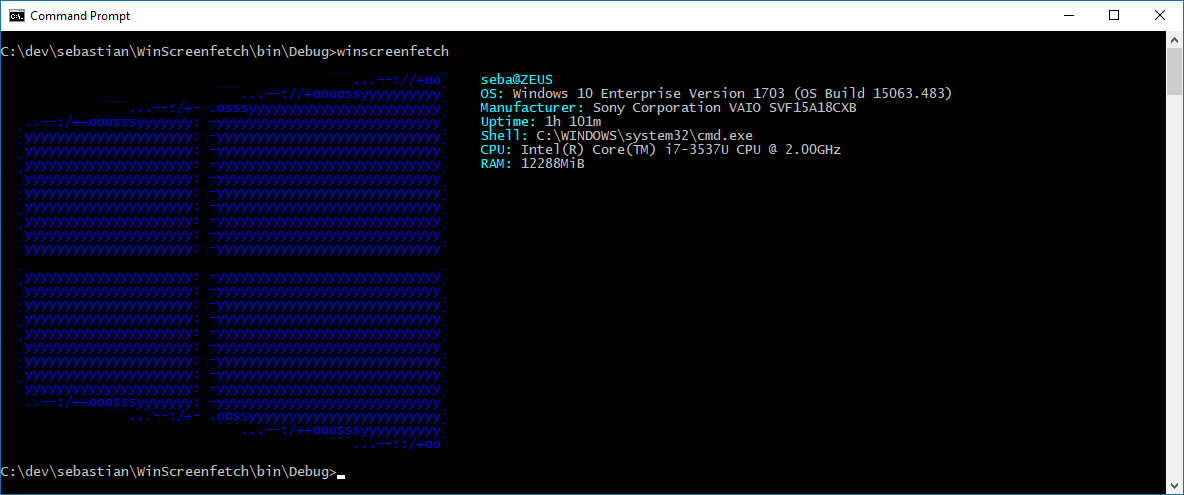
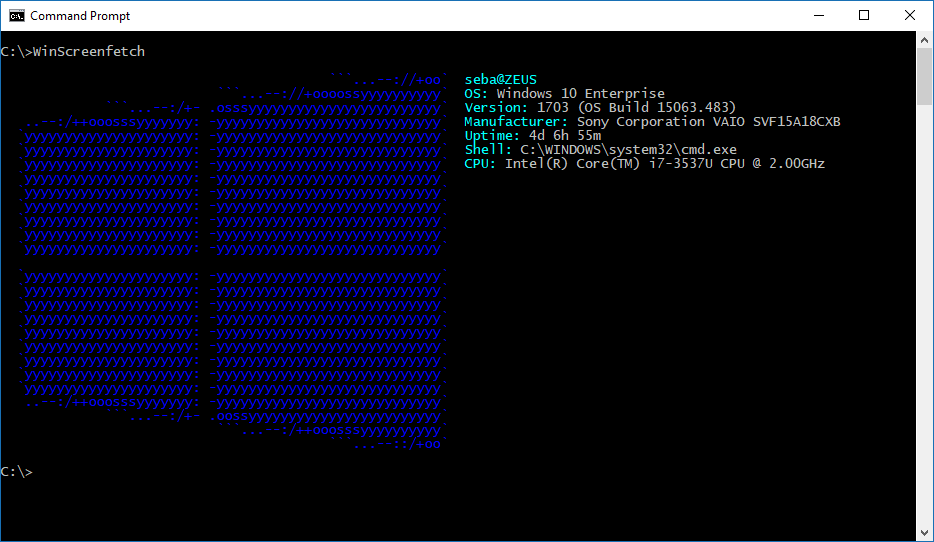
new version

diff --git a/src/Settings.cs b/src/Settings.cs
@@ -10,6 +10,7 @@ namespace WinScreenfetch
 		public string ComputerName { get; set; }
 		public string UserName { get; set; }
 		public string OS { get; set; }
+		public string Version { get; set; }
 		public string Uptime { get; set; }
 		public string Manufacturer { get; set; }
 		public string Shell { get; set; }
@@ -20,16 +21,19 @@ namespace WinScreenfetch
 		{
 			ComputerName = Environment.MachineName;
 			UserName = Environment.UserName;
-			OS = GetOSName();
+			GetOSAndVerion();
 			Uptime = GetUptime();
 			Shell = Environment.GetEnvironmentVariable("ComSpec");
 			SetCPUAndMemory();
 		}
 
-		private string GetOSName()
+		private void GetOSAndVerion()
 		{
 			using (RegistryKey reg = Registry.LocalMachine.OpenSubKey(@"SOFTWARE\Microsoft\Windows NT\CurrentVersion"))
-				return $"{reg.GetValue("ProductName")} Version {reg.GetValue("ReleaseId")} (OS Build {reg.GetValue("CurrentBuildNumber")}.{reg.GetValue("UBR")})";
+			{
+				OS= $"{reg.GetValue("ProductName")}";
+				Version = $"{reg.GetValue("ReleaseId")} (OS Build {reg.GetValue("CurrentBuildNumber")}.{reg.GetValue("UBR")})";
+			}
 		}
 
 		private void SetCPUAndMemory()
@@ -89,6 +93,7 @@ namespace WinScreenfetch
 				{
 					{ new Data { Value=$"{UserName}@{ComputerName}" } },
 					{ new Data { Label="OS", Value=OS} },
+					{ new Data { Label="Version", Value=Version } },
 					{ new Data { Label="Manufacturer", Value=Manufacturer} },
 					{ new Data { Label="Uptime", Value=Uptime} },
 					{ new Data { Label="Shell", Value=Shell} },

diff --git a/src/Properties/AssemblyInfo.cs b/src/Properties/AssemblyInfo.cs
@@ -9,4 +9,4 @@
 [assembly: AssemblyCompany("Sebastián Gómez (@sebagomez)")]
 [assembly: AssemblyCopyright("Copyright (C) @sebagomez. All rights reserved.")]
 
-[assembly: AssemblyVersion("0.5.0.*")]
+[assembly: AssemblyVersion("0.5.1.*")]

diff --git a/README.md b/README.md
@@ -1,10 +1,12 @@
 WinScreenfetch
 =============
-screenfetch for Windows
+[screenfetch](https://github.com/KittyKatt/screenFetch) for Windows
 
-Tired of seeing those cool ascii Linux distro's logos? now you can have your own in your favorite OS.
+Tired of seeing those cool ascii Linux distro's logos? now you can have it in your favorite OS.
 
-WinScreenfetch is exactly that. screenfetch for Windows.
+WinScreenfetch is exactly that, screenfetch for Windows.
+
+You can the compiled version from my [latest release](https://github.com/sebagomez/winscreenfetch/releases/tag/0.5.1), [nuget package](https://www.nuget.org/packages/WinScreenfetch/), or [cholocatey package](https://chocolatey.org/packages/WinScreenfetch).
 
 <img src="./screenshot.png" alt="WinScreenfetch" width="850">
 
